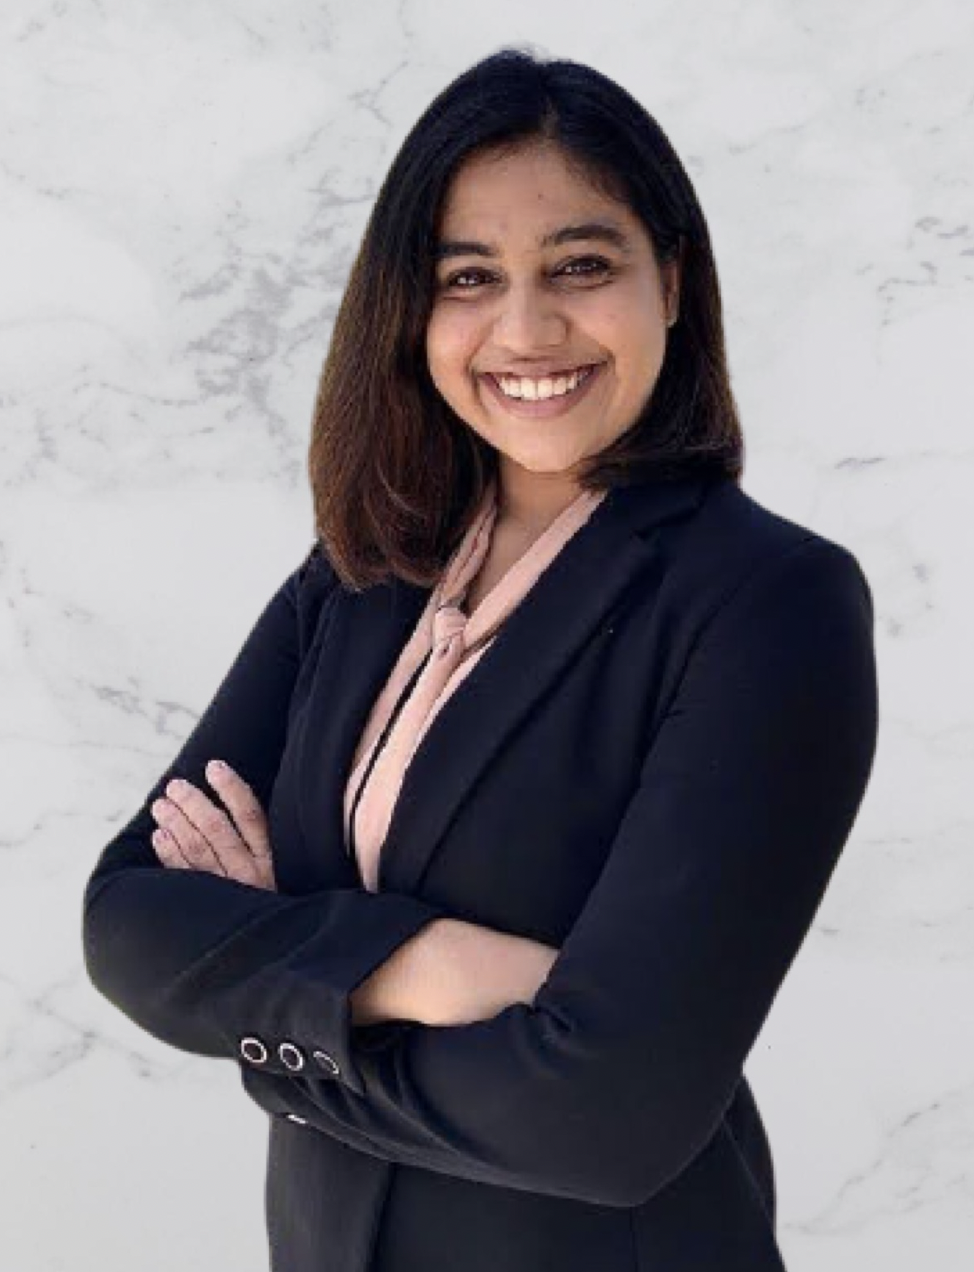
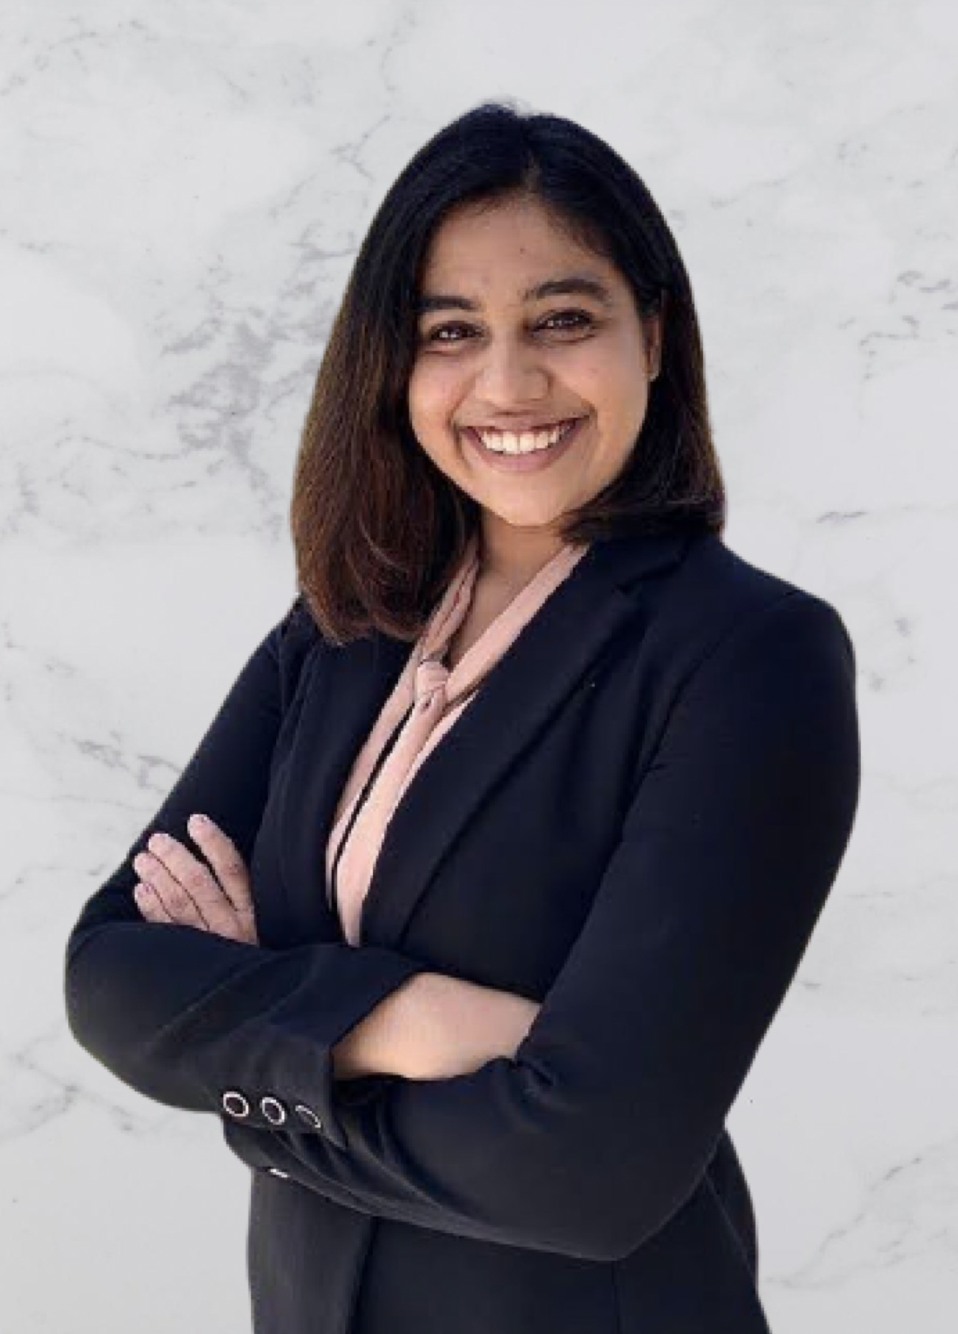
Porupdates

diff --git a/index.html b/index.html
@@ -36,7 +36,7 @@ MathJax.Hub.Config({
 <h1>Irene Grace Karot Polson</h1>
 </div>
 <table class="imgtable"><tr><td>
-<a href="https://irenegracekp.github.io/"><img src="pics/biopicfinal.jpg" alt="alt text" width="230px" height="295px" /></a>&nbsp;</td>
+<a href="https://irenegracekp.github.io/"><img src="pics/biopicfinal.jpg" alt="alt text" width="233px" height="324px" /></a>&nbsp;</td>
 <td align="left"><p>Senior Undergraduate<br /> <a href="https://www.iitk.ac.in/aero/">Aerospace Engineering Department</a> <br /><a href="https://www.iitk.ac.in/">Indian Institute of Technology Kanpur</a><br />
 <br />
 Research Intern<br /> <a href="http://aero.iisc.ac.in/people/debasish-ghose/">Guidance, Control and Decision Systems Laboratory</a> <br /><a href="https://iisc.ac.in/">IISc Bangalore</a><br />
@@ -68,7 +68,7 @@ Science, Mathematics | CGPA : 10/10 <br /></p>
 <p><a href="researchprojects.html">Find out more about my research and projects</a></p>
 <div id="footer">
 <div id="footer-text">
-Page generated 2021-09-16 00:09:59 IST, by <a href="http://jemdoc.jaboc.net/">jemdoc</a>.
+Page generated 2021-09-16 00:16:38 IST, by <a href="http://jemdoc.jaboc.net/">jemdoc</a>.
 </div>
 </div>
 </td>
